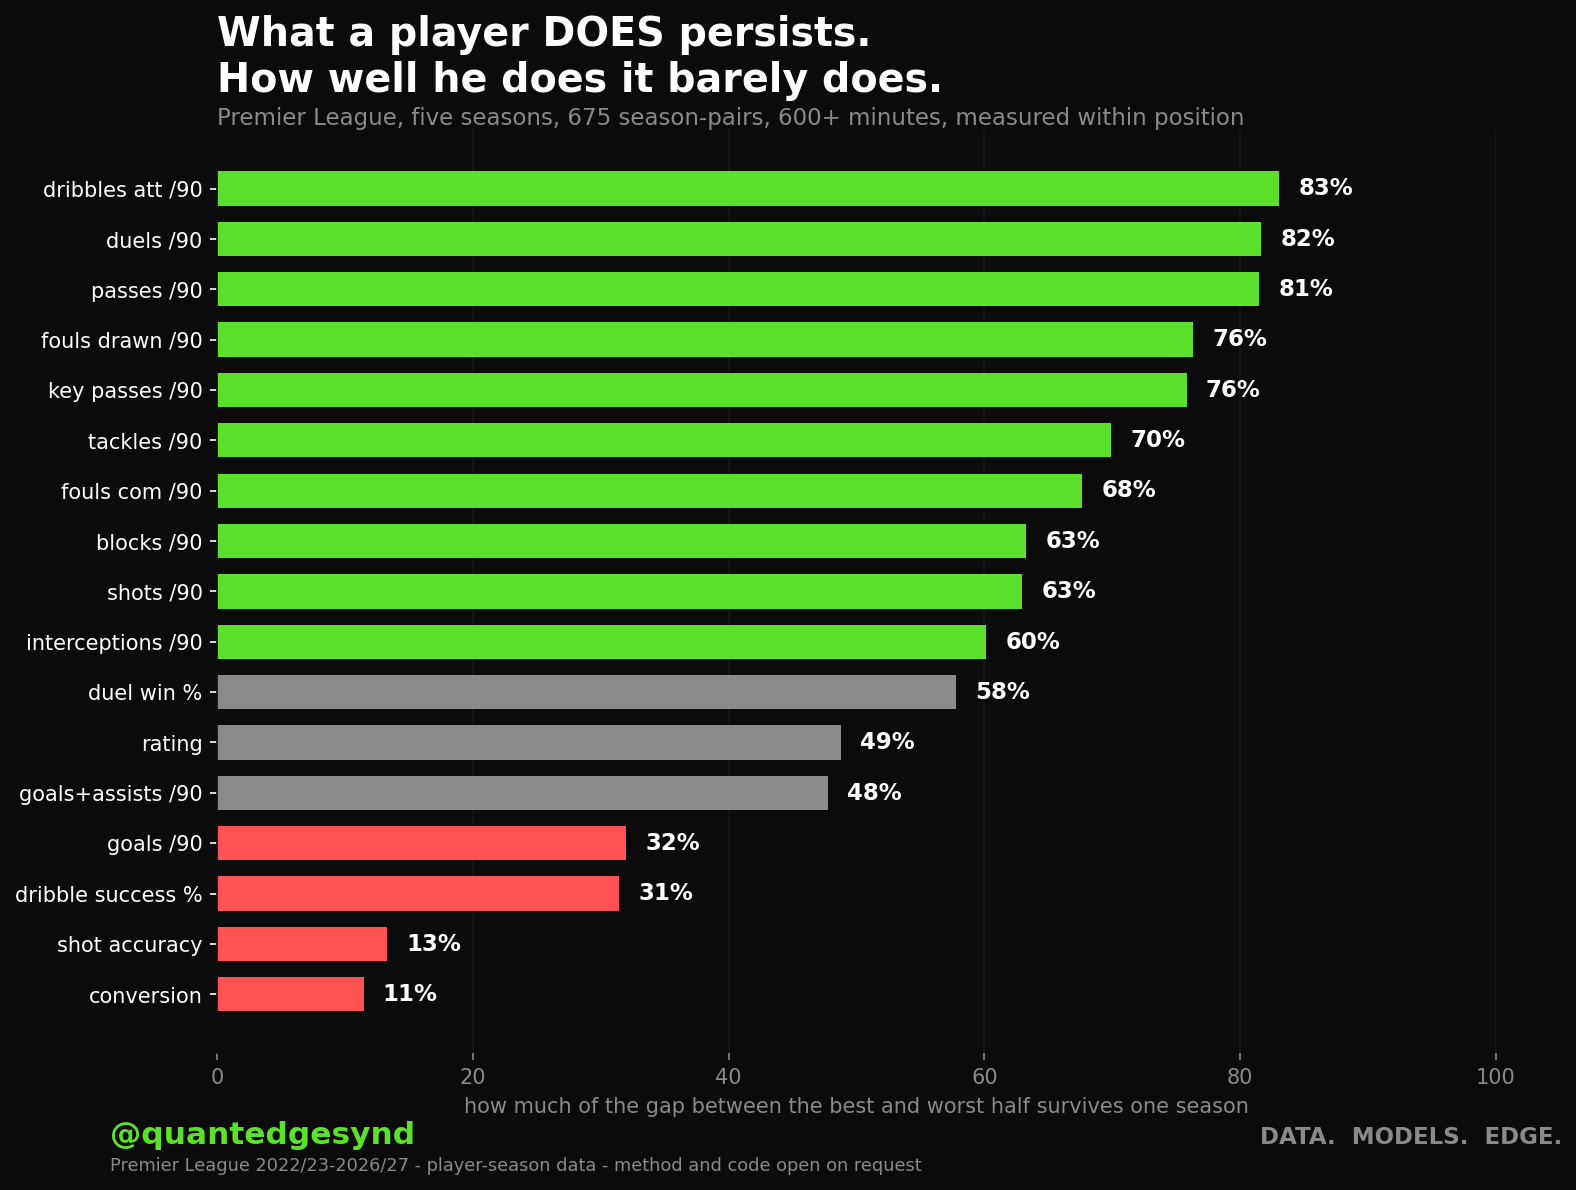
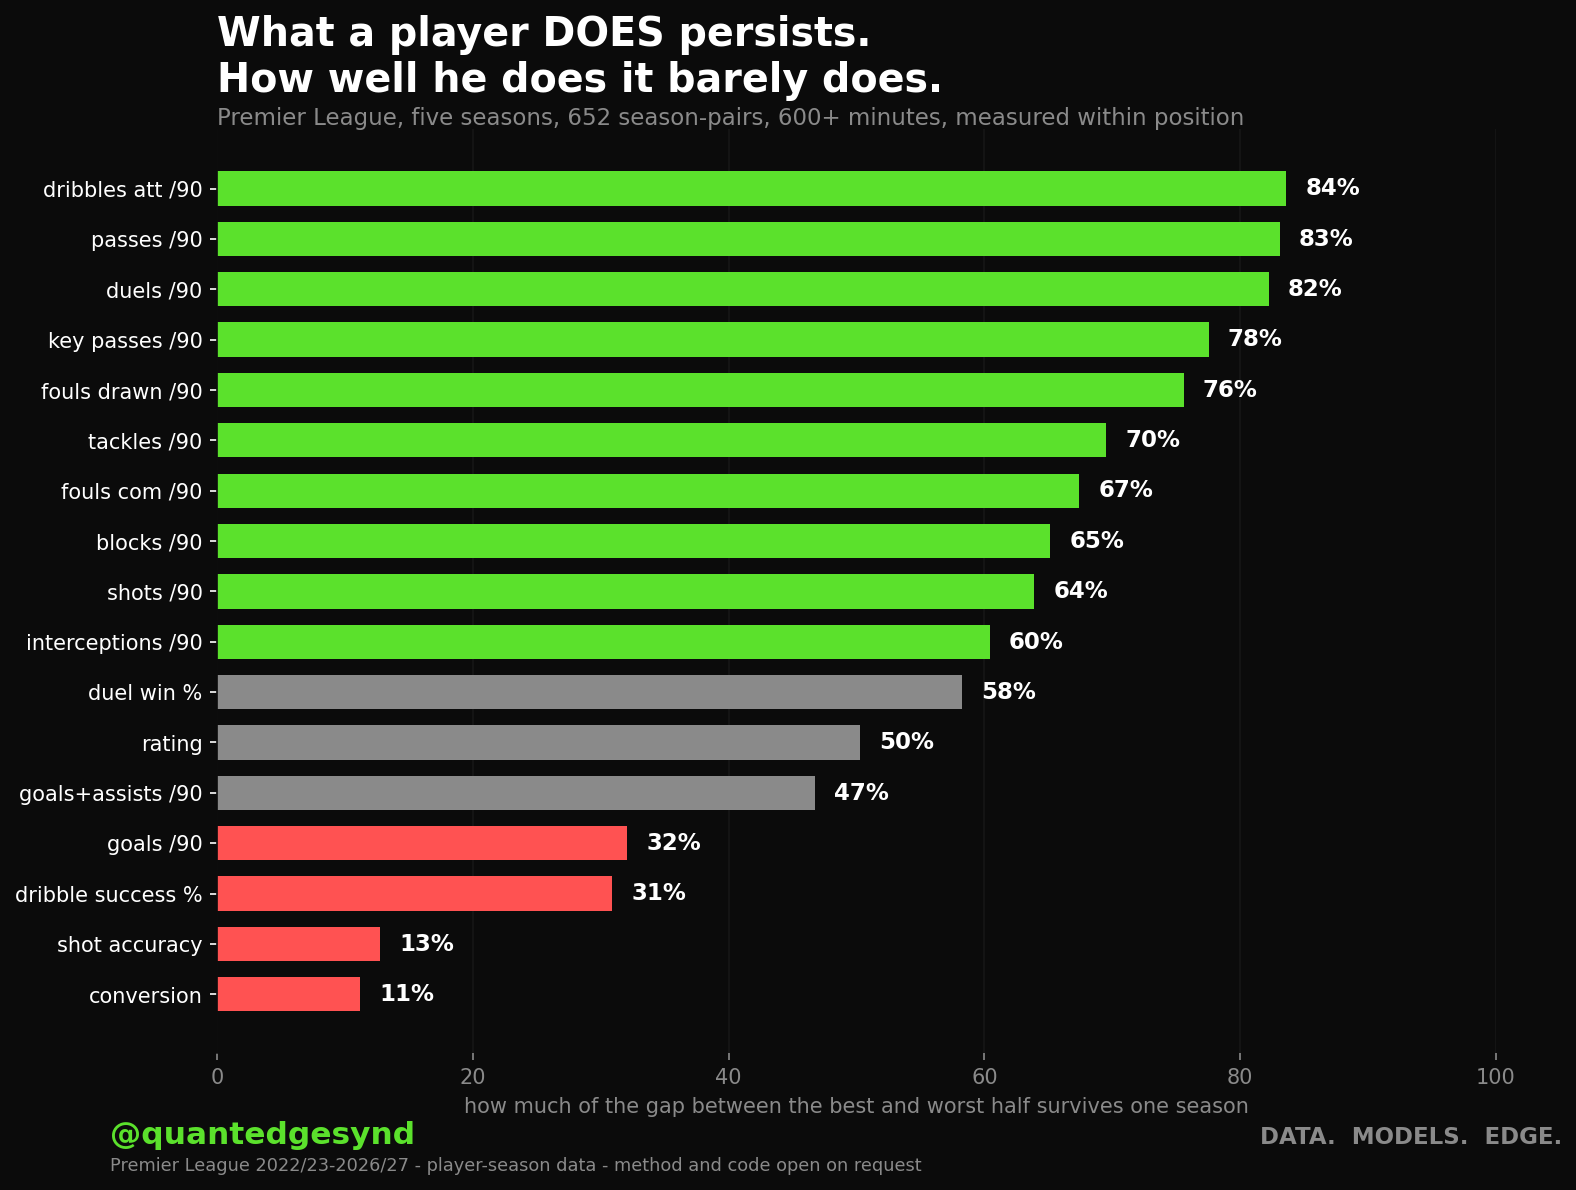
Correct the persistence numbers, and say plainly what "retained" means
The published figures were computed on a panel that still contained truncated
rows. The filter that drops them landed the next morning, caught by a chart,
and these pages were never rebuilt against it. Disabling that filter reproduces
the old 661/8%/0.08 exactly, so the cause is settled rather than guessed.

Conversion retains 11%, not 8%. Attackers 23%, not 19%. Passing 83%. The
finding is unchanged - 11% against 83% tells the same story - but the numbers
now match the code that produces them.

Two labels were also wrong. 663 was the PLAYER count; the pair count is 652.
And "five Premier League seasons" was both ambiguous and untrue: the data is
four completed seasons, 2022/23 to 2025/26, which gives three consecutive
comparisons. 2026/27 contributes nothing at a 600-minute filter in September.

Added a definition of "retained" next to the table, because it was the most
challengeable number on the page and the page never said what it was. It is the
year-two gap between the two halves as a share of the year-one gap. Not a
correlation, not variance explained, not an estimate of skill. On conversion the
retention and the correlation happen to sit at 11% and 0.10, which invites
exactly the confusion the box now heads off.

The recruitment section no longer implies the research improves recruitment
decisions. It has not been tested against signings and outcomes, and until it
is, that claim is unearned. It asks instead whether the finding is relevant to
how the reader works.
[…]

diff --git a/analysis/which-football-stats-persist/index.html b/analysis/which-football-stats-persist/index.html
@@ -6,17 +6,17 @@
 <link rel="icon" type="image/svg+xml" href="/favicon.svg">
 <link rel="alternate icon" href="/favicon.png">
 <title>Which football stats actually mean anything | Quant Edge Syndicate</title>
-<meta name="description" content="We measured how much of the gap between players on each metric survives to the next season. Volume persists. Efficiency does not. 663 Premier League season-pairs, method open.">
+<meta name="description" content="We measured how much of the gap between players on each metric survives to the next season. Volume persists. Efficiency does not. 652 Premier League season-pairs, method open.">
 <link rel="canonical" href="https://quantedgesyndicate.com/analysis/which-football-stats-persist/">
 <meta name="robots" content="index,follow">
 <meta property="og:type" content="article">
 <meta property="og:title" content="Which football stats actually mean anything">
-<meta property="og:description" content="We measured how much of the gap between players on each metric survives to the next season. Volume persists. Efficiency does not. 663 Premier League season-pairs, method open.">
+<meta property="og:description" content="We measured how much of the gap between players on each metric survives to the next season. Volume persists. Efficiency does not. 652 Premier League season-pairs, method open.">
 <meta property="og:url" content="https://quantedgesyndicate.com/analysis/which-football-stats-persist/">
 <meta property="og:image" content="https://quantedgesyndicate.com/analysis/metric-persistence.png">
 <meta name="twitter:card" content="summary_large_image">
 <meta name="twitter:title" content="Which football stats actually mean anything">
-<meta name="twitter:description" content="We measured how much of the gap between players on each metric survives to the next season. Volume persists. Efficiency does not. 663 Premier League season-pairs, method open.">
+<meta name="twitter:description" content="We measured how much of the gap between players on each metric survives to the next season. Volume persists. Efficiency does not. 652 Premier League season-pairs, method open.">
 <meta name="twitter:image" content="https://quantedgesyndicate.com/analysis/metric-persistence.png">
 <style>
   :root {
@@ -189,7 +189,6 @@
     <a href="/"><img src="/qes_logo.png" alt="Quant Edge Syndicate"></a>
     <nav>
       <a href="/analysis/">Analysis</a>
-      <a href="/metric-audit/">Metric audit</a>
       <a href="/blog/">Blog</a>
       <a href="/proof.html">Track record</a>
     </nav>
@@ -215,10 +214,12 @@
 
     <p>Some of them do. Most of them describe a season.</p>
 
-    <p>We tested which is which. Five Premier League seasons, every outfielder
-    with 600 or more minutes, 663 consecutive season-pairs. For each metric we
-    split the players at the median and measured how much of the gap between
-    the two halves was still there a year later, on the same players.</p>
+    <p>We tested which is which. Four completed Premier League seasons,
+    2022/23 to 2025/26, which gives three consecutive-season comparisons.
+    Every outfielder with 600 or more minutes in both halves of a comparison:
+    663 players, 652 season-pairs. For each metric we split the players at the
+    median and measured how much of the gap between the two halves was still
+    there a year later, on the same players.</p>
 
     <p>Crucially, that comparison is made <strong>within position</strong>.
     Pooled across everyone, a large part of the gap on something like shot
@@ -233,32 +234,48 @@
 
     <figure>
       <img src="/analysis/metric-persistence.png"
-           alt="Bar chart of how much of each metric's year-one separation survives one season, Premier League, 663 season-pairs">
+           alt="Bar chart of how much of each metric's year-one separation survives one season, Premier League, 652 season-pairs">
       <figcaption>How much of the gap between the best and worst half survives
       one season. Green above 60%, red below 40%.</figcaption>
     </figure>
+
+    <div class="callout">
+      <p><strong>What &ldquo;retained&rdquo; means, exactly.</strong> Sort the
+      players by a metric and cut at the median. Measure the distance between
+      the top half's average and the bottom half's average. Now follow the same
+      players into the next season and measure the distance between those same
+      two groups again. Retained is the second distance as a share of the
+      first. 83% means the two groups are still almost as far apart. 11% means
+      they have very nearly collapsed into each other.</p>
+      <p>It is <em>not</em> a correlation, and it is <em>not</em> the share of
+      variance explained, and it is <em>not</em> an estimate of how much of a
+      metric is skill. Correlation is a separate column, and on conversion the
+      two happen to sit close together &mdash; 11% retained against an r of
+      0.10 &mdash; which is coincidence, not confirmation.</p>
+    </div>
 
     <h2>The table</h2>
     <table class="data">
       <thead><tr><th>Metric</th><th class="num">Retained</th>
       <th class="num">Correlation</th></tr></thead>
       <tbody>
-      <tr class="hi"><td>passes per 90</td><td class="num">82%</td><td class="num">0.87</td></tr>
-      <tr class="hi"><td>dribbles attempted per 90</td><td class="num">82%</td><td class="num">0.88</td></tr>
-      <tr class="hi"><td>duels per 90</td><td class="num">80%</td><td class="num">0.78</td></tr>
-      <tr class="hi"><td>key passes per 90</td><td class="num">75%</td><td class="num">0.80</td></tr>
-      <tr class="hi"><td>fouls drawn per 90</td><td class="num">75%</td><td class="num">0.78</td></tr>
-      <tr class="hi"><td>tackles per 90</td><td class="num">69%</td><td class="num">0.76</td></tr>
-      <tr class=""><td>blocks per 90</td><td class="num">64%</td><td class="num">0.72</td></tr>
-      <tr class=""><td>shots per 90</td><td class="num">63%</td><td class="num">0.85</td></tr>
-      <tr class=""><td>interceptions per 90</td><td class="num">59%</td><td class="num">0.71</td></tr>
-      <tr class=""><td>duel win %</td><td class="num">55%</td><td class="num">0.73</td></tr>
-      <tr class=""><td>goals + assists per 90</td><td class="num">48%</td><td class="num">0.72</td></tr>
-      <tr class=""><td>match rating</td><td class="num">47%</td><td class="num">0.46</td></tr>
-      <tr class="lo"><td>dribble success %</td><td class="num">32%</td><td class="num">0.22</td></tr>
-      <tr class="lo"><td>goals per 90</td><td class="num">31%</td><td class="num">0.73</td></tr>
-      <tr class="lo"><td>shot accuracy</td><td class="num">13%</td><td class="num">0.19</td></tr>
-      <tr class="lo"><td>conversion</td><td class="num">8%</td><td class="num">0.08</td></tr>
+      <tr class="hi"><td>passes per 90</td><td class="num">83%</td><td class="num">0.89</td></tr>
+      <tr class="hi"><td>dribbles attempted per 90</td><td class="num">84%</td><td class="num">0.90</td></tr>
+      <tr class="hi"><td>duels per 90</td><td class="num">82%</td><td class="num">0.85</td></tr>
+      <tr class="hi"><td>key passes per 90</td><td class="num">78%</td><td class="num">0.81</td></tr>
+      <tr class="hi"><td>fouls drawn per 90</td><td class="num">76%</td><td class="num">0.81</td></tr>
+      <tr class="hi"><td>tackles per 90</td><td class="num">70%</td><td class="num">0.77</td></tr>
+      <tr class=""><td>fouls committed per 90</td><td class="num">67%</td><td class="num">0.71</td></tr>
+      <tr class=""><td>blocks per 90</td><td class="num">65%</td><td class="num">0.73</td></tr>
+      <tr class=""><td>shots per 90</td><td class="num">64%</td><td class="num">0.87</td></tr>
+      <tr class=""><td>interceptions per 90</td><td class="num">60%</td><td class="num">0.72</td></tr>
+      <tr class=""><td>duel win %</td><td class="num">58%</td><td class="num">0.75</td></tr>
+      <tr class=""><td>match rating</td><td class="num">50%</td><td class="num">0.50</td></tr>
+      <tr class=""><td>goals + assists per 90</td><td class="num">47%</td><td class="num">0.73</td></tr>
+      <tr class="lo"><td>goals per 90</td><td class="num">32%</td><td class="num">0.74</td></tr>
+      <tr class="lo"><td>dribble success %</td><td class="num">31%</td><td class="num">0.21</td></tr>
+      <tr class="lo"><td>shot accuracy</td><td class="num">13%</td><td class="num">0.20</td></tr>
+      <tr class="lo"><td>conversion</td><td class="num">11%</td><td class="num">0.10</td></tr>
       </tbody>
     </table>
 
@@ -273,14 +290,14 @@
 
     <h2>Read the bottom</h2>
     <p>Efficiency collapses. Shot accuracy retains 13%. Dribble success 32%.
-    Conversion, meaning goals per shot on target, retains 8% with a
-    year-on-year correlation of 0.08.</p>
+    Conversion, meaning goals per shot on target, retains 11% with a
+    year-on-year correlation of 0.10.</p>
 
-    <p>One caveat that matters. That 8% is measured across all outfielders,
+    <p>One caveat that matters. That 11% is measured across all outfielders,
     including centre-backs for whom a finishing rate is close to meaningless.
-    Restricted to attackers alone, with a 20-shot filter, it rises to roughly
-    19%. Still far below every volume metric, but the honest number for a
-    question about forwards is the higher one.</p>
+    Restricted to attackers alone it rises to 23%, on 130 season-pairs. Still
+    far below every volume metric, but the honest number for a question about
+    forwards is the higher one.</p>
 
     <h2>The clearest case</h2>
     <p>The same test on Premier League attackers, split on conversion, 92
@@ -328,19 +345,27 @@
     error and the top half falls back, which is arithmetic rather than
     football. That is precisely why the comparison between metrics carries the
     meaning here. Every metric in the table is measured with error, and passing
-    volume retains 82% anyway while conversion retains 8%.</p>
+    volume retains 83% anyway while conversion retains 11%.</p>
 
-    <p>And this is one league, five seasons, public per-season aggregates. No
+    <p>And this is one league, four seasons, public per-season aggregates. No
     event data, no tracking. A centre-back and a full-back are both filed as
     "Defender" in this feed, which limits any position-specific reading.</p>
 
-    <h2>What it implies for recruitment</h2>
-    <p>A screen that ranks forwards on conversion rate is ranking them largely
-    on last season's variance. The same goes for shot accuracy at 13%.</p>
+    <h2>What this might mean for recruitment</h2>
+    <p>We are not claiming this improves anyone's recruitment decisions. We
+    have not tested it against signings and outcomes, and until someone does,
+    any claim in that direction is unearned.</p>
 
-    <p>The metrics that survive are the boring ones. How often he shoots, not
-    how often he scores. How often he takes a man on, not how often it comes
-    off.</p>
+    <p>What we can say is narrower. If a screen ranks forwards on conversion
+    rate, most of what separates the top of that list from the bottom will not
+    be there next season. The same goes for shot accuracy at 13%. The metrics
+    that survive are the boring ones: how often he shoots, not how often he
+    scores; how often he takes a man on, not how often it comes off.</p>
+
+    <p>Whether that matters depends on how much weight those metrics carry in
+    your own process, which we cannot see from here. If you rank players for a
+    living, we would genuinely like to know whether this is relevant to how you
+    work, and whether the method holds up against data better than ours.</p>
 
     <h2>Reproduction</h2>
     <p>Every number here comes from our own code against a per-season player
@@ -349,12 +374,6 @@
 
     <p>We publish negative results as a matter of course. It is the only reason
     to believe the positive ones.</p>
-    <div class="callout">
-      <p><strong>Want to know what your own metrics score?</strong> We run this
-      on your data and hand back the table.
-      <a href="/metric-audit/">How the audit works &rarr;</a></p>
-    </div>
-
   </article>
 
   <footer>

diff --git a/metric-audit/index.html b/metric-audit/index.html
@@ -6,17 +6,17 @@
 <link rel="icon" type="image/svg+xml" href="/favicon.svg">
 <link rel="alternate icon" href="/favicon.png">
 <title>Metric audit | Quant Edge Syndicate</title>
-<meta name="description" content="We test which of the player metrics you screen on still describe the same player a year later. Conversion rate keeps 8% of its signal. Passing volume keeps 82%.">
+<meta name="description" content="We test which of the player metrics you screen on still describe the same player a year later. Of the gap between the best and worst half, conversion rate keeps 11% a season later. Passing keeps 83%.">
 <link rel="canonical" href="https://quantedgesyndicate.com/metric-audit/">
 <meta name="robots" content="index,follow">
 <meta property="og:type" content="article">
 <meta property="og:title" content="Metric audit">
-<meta property="og:description" content="We test which of the player metrics you screen on still describe the same player a year later. Conversion rate keeps 8% of its signal. Passing volume keeps 82%.">
+<meta property="og:description" content="We test which of the player metrics you screen on still describe the same player a year later. Of the gap between the best and worst half, conversion rate keeps 11% a season later. Passing keeps 83%.">
 <meta property="og:url" content="https://quantedgesyndicate.com/metric-audit/">
 <meta property="og:image" content="https://quantedgesyndicate.com/analysis/metric-persistence.png">
 <meta name="twitter:card" content="summary_large_image">
 <meta name="twitter:title" content="Metric audit">
-<meta name="twitter:description" content="We test which of the player metrics you screen on still describe the same player a year later. Conversion rate keeps 8% of its signal. Passing volume keeps 82%.">
+<meta name="twitter:description" content="We test which of the player metrics you screen on still describe the same player a year later. Of the gap between the best and worst half, conversion rate keeps 11% a season later. Passing keeps 83%.">
 <meta name="twitter:image" content="https://quantedgesyndicate.com/analysis/metric-persistence.png">
 <style>
   :root {
@@ -218,11 +218,11 @@
     <p class="lead">You have a list of stats you use to judge players. We test
     which of them still describe the same player a year later.</p>
 
-    <p>The ones that do not survive, you should not be ranking on. On five
-    seasons of Premier League data, passing volume keeps <strong>82%</strong> of
-    its ability to separate players. Conversion rate keeps <strong>8%</strong>.
-    If a shortlist weights those the same way, most of what it is measuring is
-    last season's luck.</p>
+    <p>Split your players at the median on a metric, then look a season later
+    at how far apart those same two halves still are. On four completed seasons
+    of Premier League data, passing volume keeps <strong>83%</strong> of that
+    gap. Conversion rate keeps <strong>11%</strong>. If a shortlist weights
+    those the same way, most of what it is measuring is last season's luck.</p>
 
     <figure>
       <a href="/analysis/which-football-stats-persist/">
@@ -247,7 +247,7 @@
     the slow way:</p>
 
     <div class="trap"><strong>Pooling positions.</strong> Measured across
-    everyone, shot volume looks 86% stable. Measured within position it is 63%.
+    everyone, shot volume looks 89% stable. Measured within position it is 64%.
     Most of that gap was forwards being forwards.</div>
 
     <div class="trap"><strong>Null is not zero.</strong> The same feed uses an
@@ -259,8 +259,8 @@
     properly. A single rule gets one of those wrong.</div>
 
     <div class="trap"><strong>The wrong population.</strong> Conversion rate
-    across all outfielders reads 8%. Among the forwards it actually describes,
-    19%. Quote the wrong one and you understate your own screen.</div>
+    across all outfielders reads 11%. Among the forwards it actually describes,
+    23%. Quote the wrong one and you understate your own screen.</div>
 
     <div class="trap"><strong>Mechanical regression.</strong> Split any noisy
     measure and the top half falls back. That is arithmetic, not football, and

diff --git a/analysis/index.html b/analysis/index.html
@@ -189,7 +189,6 @@
     <a href="/"><img src="/qes_logo.png" alt="Quant Edge Syndicate"></a>
     <nav>
       <a href="/analysis/">Analysis</a>
-      <a href="/metric-audit/">Metric audit</a>
       <a href="/blog/">Blog</a>
       <a href="/proof.html">Track record</a>
     </nav>
@@ -204,13 +203,8 @@
   <div class="postlist">
     <a class="post" href="/analysis/which-football-stats-persist/">
       <h2>Which football stats actually mean anything</h2>
-      <p>663 Premier League season-pairs. Volume and behaviour persist to the
+      <p>652 Premier League season-pairs. Volume and behaviour persist to the
       next season. Efficiency does not. 17 September 2026</p>
-    </a>
-    <a class="post" href="/analysis/champions-league-projected-goals/">
-      <h2>Champions League projected goals</h2>
-      <p>5,000 simulated seasons of the league phase and knockouts. Where the
-      leading scorers land, and how wide that range really is. 9 September 2026</p>
     </a>
   </div>
 
